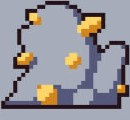
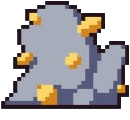
patch bug affichage ressources

diff --git a/Over_Roboted_II/UCGame.xaml.cs b/Over_Roboted_II/UCGame.xaml.cs
@@ -89,9 +89,9 @@ namespace Over_Roboted_II
         }
         private void InitializeRessources()
         {
-            Ressources.Add(new Ressources(600, 400,"Image/ressource1"));
-            Ressources.Add(new Ressources(800, 200,"Image/ressource2"));
-            Ressources.Add(new Ressources(1000, 300,"Image/ressource3"));
+            Ressources.Add(new Ressources(600, 400, "pack://application:,,,/Images/ressource1.jpg"));
+            Ressources.Add(new Ressources(900, 200, "pack://application:,,,/Images/ressource2.jpg"));
+            Ressources.Add(new Ressources(1000, 300, "pack://application:,,,/Images/ressource3.jpg"));
             foreach (var r in Ressources)
             {
                 r.Draw(GameCanvas);
